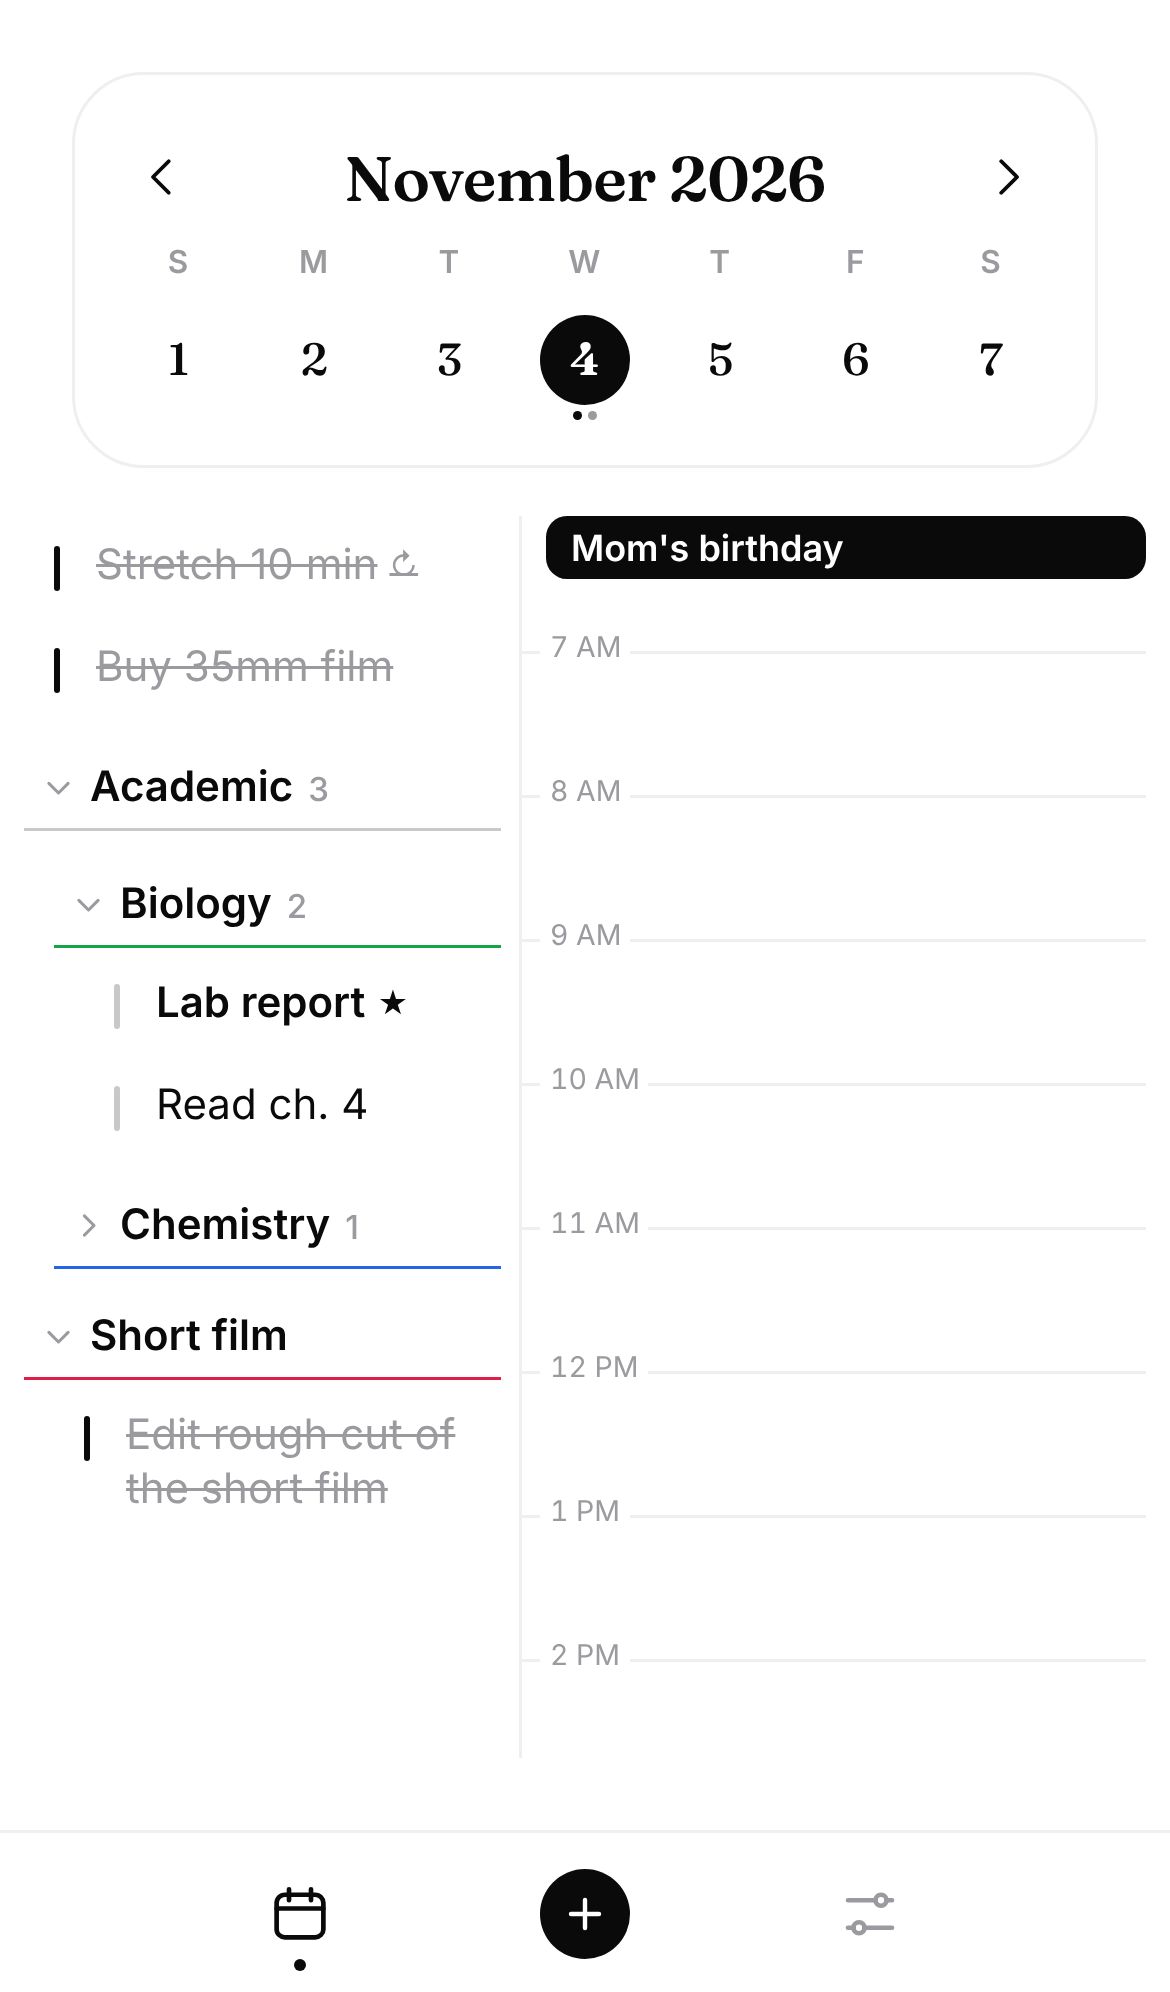
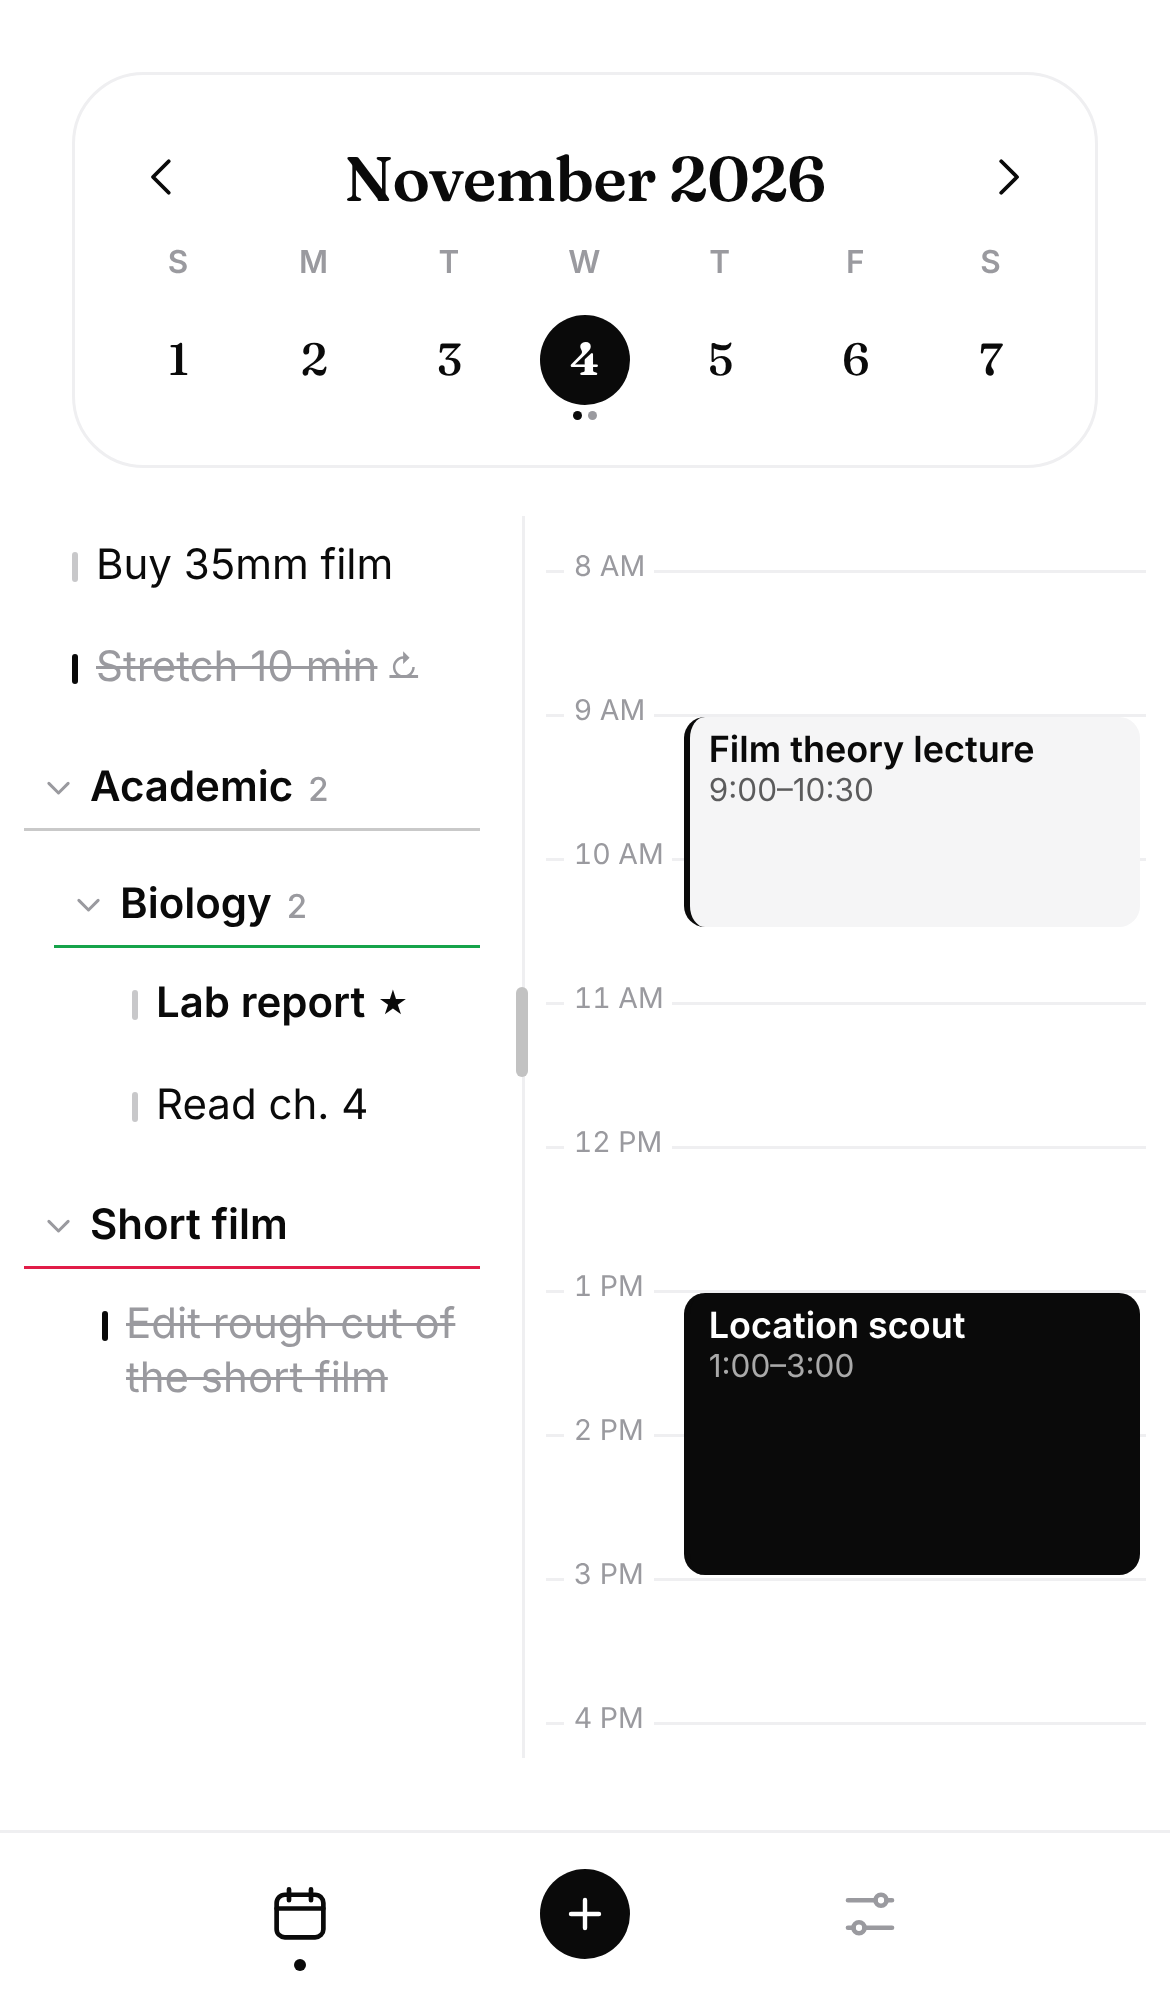
Stretchable to-do/schedule columns; tighter, letter-height done mark
- Add a draggable divider between the to-do and schedule columns. Drag to
  an edge to stretch one side full width, drag back (or swipe sideways)
  to return to the split. The layout is kept while changing days, and +
  defaults to an event when the schedule is full width.
- Done mark is now cap-height and sits closer to the text.
- Bump service worker cache to planner-v7.

Claude-Session: https://claude.ai/code/session_01ASSW9g954rm1kx6hrjz3o3

diff --git a/js/day.js b/js/day.js
@@ -119,6 +119,66 @@ function scheduleColumn(key, actions) {
   );
 }
 
+/* ---------- Stretchable split ----------
+   'split' shows both columns; 'todo' / 'schedule' stretch one column to full width.
+   Drag the divider (or swipe sideways) to stretch a side, and the same way back. */
+const SPLIT = 1 / 2.25; // default to-do share (to-do 1 : schedule 1.25)
+let layout = 'split';
+export const currentLayout = () => layout;
+
+const shareFor = (mode) => (mode === 'todo' ? 1 : mode === 'schedule' ? 0 : SPLIT);
+
+function setShare(columns, share) {
+  columns.style.gridTemplateColumns = `minmax(0, ${share}fr) var(--divider) minmax(0, ${1 - share}fr)`;
+  columns.dataset.layout = share >= 1 ? 'todo' : share <= 0 ? 'schedule' : 'split';
+}
+
+function applyLayout(columns, mode) {
+  layout = mode;
+  setShare(columns, shareFor(mode));
+}
+
+function makeStretchable(columns, divider) {
+  let drag = null;
+  divider.addEventListener('pointerdown', (e) => {
+    const box = columns.getBoundingClientRect();
+    drag = { left: box.left, width: box.width };
+    divider.setPointerCapture(e.pointerId);
+    columns.classList.add('dragging');
+  });
+  divider.addEventListener('pointermove', (e) => {
+    if (!drag) return;
+    setShare(columns, Math.min(1, Math.max(0, (e.clientX - drag.left) / drag.width)));
+  });
+  const end = (e) => {
+    if (!drag) return;
+    const share = Math.min(1, Math.max(0, (e.clientX - drag.left) / drag.width));
+    drag = null;
+    columns.classList.remove('dragging');
+    // Snap: near an edge stretches that side, otherwise back to the split.
+    applyLayout(columns, share > 0.72 ? 'todo' : share < 0.2 ? 'schedule' : 'split');
+  };
+  divider.addEventListener('pointerup', end);
+  divider.addEventListener('pointercancel', end);
+
+  // Sideways swipe anywhere on the lists moves one step: schedule ⇄ split ⇄ to-do.
+  let touch = null;
+  columns.addEventListener('touchstart', (e) => {
+    if (e.target.closest('.divider')) return;
+    touch = { x: e.touches[0].clientX, y: e.touches[0].clientY };
+  }, { passive: true });
+  columns.addEventListener('touchend', (e) => {
+    if (!touch) return;
+    const dx = e.changedTouches[0].clientX - touch.x;
+    const dy = e.changedTouches[0].clientY - touch.y;
+    touch = null;
+    if (Math.abs(dx) < 60 || Math.abs(dx) < Math.abs(dy) * 1.5) return;
+    const order = ['schedule', 'split', 'todo'];
+    const i = order.indexOf(layout) + (dx > 0 ? 1 : -1);
+    if (i >= 0 && i < order.length) applyLayout(columns, order[i]);
+  });
+}
+
 export function renderDay(root, key, actions) {
   // Keep scroll positions when re-rendering the same day (e.g. after ticking a to-do).
   const sameDay = root.dataset.date === key;
@@ -126,7 +186,11 @@ export function renderDay(root, key, actions) {
   if (sameDay) root.querySelectorAll('[data-scroll]').forEach((el) => { scrolls[el.dataset.scroll] = el.scrollTop; });
 
   root.dataset.date = key;
-  root.replaceChildren(h('div', { class: 'columns' }, todoColumn(key, actions), scheduleColumn(key, actions)));
+  const divider = h('div', { class: 'divider', role: 'separator', 'aria-label': 'Drag to stretch to-do or schedule' }, h('span', { class: 'grip' }));
+  const columns = h('div', { class: 'columns' }, todoColumn(key, actions), divider, scheduleColumn(key, actions));
+  setShare(columns, shareFor(layout));
+  makeStretchable(columns, divider);
+  root.replaceChildren(columns);
 
   const tl = root.querySelector('[data-scroll="timeline"]');
   if (sameDay) {

diff --git a/styles.css b/styles.css
@@ -128,19 +128,35 @@ svg { width: 20px; height: 20px; fill: none; stroke: currentColor; stroke-width:
 .week-mode .panel { flex-grow: 1; opacity: 1; }
 
 
-.columns { padding-top: 16px; flex: 1; min-height: 0; display: grid; grid-template-columns: 1fr 1.25fr; }
-.col { display: flex; flex-direction: column; min-height: 0; }
-.col + .col { border-left: 1px solid var(--line); }
+.columns {
+  --divider: 16px;
+  padding-top: 16px; flex: 1; min-height: 0; display: grid;
+  grid-template-columns: minmax(0, 1fr) var(--divider) minmax(0, 1.25fr);
+  transition: grid-template-columns .35s cubic-bezier(.2,.8,.2,1);
+}
+.columns.dragging { transition: none; }
+.col { display: flex; flex-direction: column; min-height: 0; min-width: 0; overflow: hidden; }
+
+/* Divider between to-do and schedule: a hairline with a grip; drag to stretch a side. */
+.divider { position: relative; touch-action: none; cursor: col-resize; }
+.divider::before { content: ""; position: absolute; top: 0; bottom: 0; left: 50%; width: 1px; background: var(--line); }
+.grip {
+  position: absolute; left: 50%; top: 38%; transform: translateX(-50%);
+  width: 4px; height: 30px; border-radius: 2px;
+  background: color-mix(in srgb, var(--fg) 25%, var(--bg));
+  transition: height .2s, background .2s;
+}
+.divider:active .grip, .columns.dragging .grip { height: 40px; background: var(--fg); }
 .col-scroll { flex: 1; overflow-y: auto; -webkit-overflow-scrolling: touch; padding-bottom: 24px; }
 
 /* To-dos: a slim rounded mark (gray → solid when done) toggles; the text opens the editor. */
 .todos { list-style: none; margin: 0; padding: 0 6px 0 8px; }
 .todo { display: flex; align-items: flex-start; }
-.mark-btn { flex-shrink: 0; width: 22px; height: 34px; display: grid; place-items: center; }
-.dash { width: 2.5px; height: 15px; border-radius: 2px; background: var(--muted); opacity: .55; transition: background .2s, opacity .2s, width .2s; }
+.mark-btn { flex-shrink: 0; width: 18px; height: 34px; display: flex; align-items: center; justify-content: flex-end; }
+.dash { width: 2.5px; height: 10px; /* ≈ cap height of the 14px text */ border-radius: 2px; background: var(--muted); opacity: .55; transition: background .2s, opacity .2s, width .2s; }
 .todo.done .dash { background: var(--accent); opacity: 1; }
 .todo-title {
-  flex: 1; min-width: 0; text-align: left; padding: 8px 2px 8px 2px;
+  flex: 1; min-width: 0; text-align: left; padding: 8px 2px 8px 6px;
   font-size: 14px; line-height: 18px; overflow-wrap: anywhere;
 }
 .todo.done .todo-title { color: var(--muted); text-decoration: line-through; }

diff --git a/js/app.js b/js/app.js
@@ -1,7 +1,7 @@
 import { addDays, dateKey, parseKey, todayKey, h } from './util.js';
 import { onChange } from './store.js';
 import { renderCalendar } from './calendar.js';
-import { renderDay } from './day.js';
+import { renderDay, currentLayout } from './day.js';
 import { openEditor } from './editor.js';
 import { renderSettings, applyTheme } from './settings.js';
 import { refreshReminders, setToast } from './reminders.js';
@@ -39,7 +39,11 @@ const actions = {
     }
     render();
   },
-  add: () => openEditor({ kind: 'todo', date: view.selected || todayKey() }),
+  // With the schedule stretched full width, + starts on "Event".
+  add: () => openEditor({
+    kind: view.selected && currentLayout() === 'schedule' ? 'event' : 'todo',
+    date: view.selected || todayKey(),
+  }),
   create: (opts) => openEditor(opts),
   edit: (kind, item) => openEditor({ kind, item }),
 };

diff --git a/sw.js b/sw.js
@@ -1,5 +1,5 @@
 // Bump CACHE whenever any file in ASSETS changes, so installed copies update.
-const CACHE = 'planner-v6';
+const CACHE = 'planner-v7';
 const ASSETS = [
   './',
   'index.html',

diff --git a/CLAUDE.md b/CLAUDE.md
@@ -51,7 +51,13 @@ laptop. So:
 - **Done mark**: in front of each to-do is a thin *vertical* line with rounded
   ends (`.dash`, not a circle) — gray when open, solid black/accent when done. Tapping it toggles done;
   done to-dos get a plain `line-through` and gray text (the owner rejected the
-  hand-drawn pencil stroke). Tapping the text opens the editor.
+  hand-drawn pencil stroke). Tapping the text opens the editor. The mark is
+  letter (cap) height and sits close to the text.
+- **Stretchable columns**: a divider with a grip sits between to-do and schedule.
+  Dragging it to an edge stretches one side to full width (a to-do or schedule
+  "tab"); dragging back (or a sideways swipe on the lists) returns to the split.
+  Layout state lives in `js/day.js` (`layout`: split | todo | schedule) and is kept
+  while changing days. With the schedule full width, + starts on "Event".
 - **Routines**: to-dos and events can repeat daily, weekly, every 2 weeks,
   monthly or yearly, with an optional "Until" date. Routine to-dos are checked
   off per day (`doneOn`). Routines only get a calendar dot when starred.
@@ -77,7 +83,7 @@ js/app.js              Entry point: view state (tab, month, selected day), actio
 js/util.js             h() DOM helper, inline SVG icons, date helpers (local 'YYYY-MM-DD' keys)
 js/store.js            State + localStorage, change listeners, routines (occursOn, isDone), queries, folder helpers
 js/calendar.js         Square month card (6 rows); rows collapse to the selected week (animated)
-js/day.js              Day view: to-do folders (mark = done, text = edit) + hourly timeline
+js/day.js              Day view: to-do folders (mark = done, text = edit) + hourly timeline, stretchable split
 js/editor.js           Bottom sheet to add/edit a to-do or event (folder, repeat/until, alert)
 js/folders.js          Bottom sheet to create/edit a folder: name + underline color
 js/settings.js         Settings tab: theme, accent color, folders, alerts, backup export/restore
@@ -153,7 +159,7 @@ GitHub Pages serving the repo root (all paths are relative, so it works under
 `/APP-Design/`): repo Settings → Pages → Deploy from a branch → branch, `/ (root)`.
 
 **When you change any file the app loads, bump `CACHE` in `sw.js`**
-(currently `planner-v6`; bump to `planner-v7`, …) and keep its `ASSETS` list in sync
+(currently `planner-v7`; bump to `planner-v8`, …) and keep its `ASSETS` list in sync
 with every file in `js/` and `fonts/`, otherwise installed phones keep stale files.
 
 ## Git conventions
